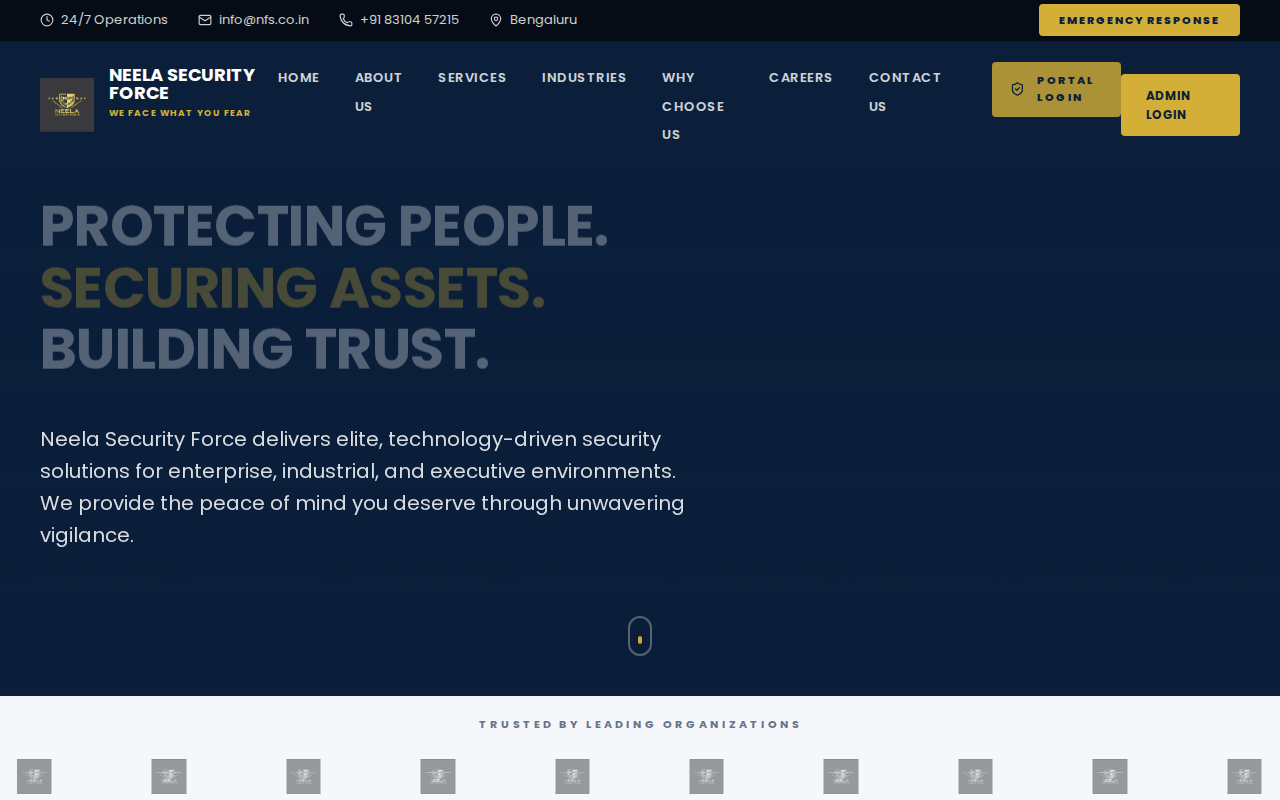
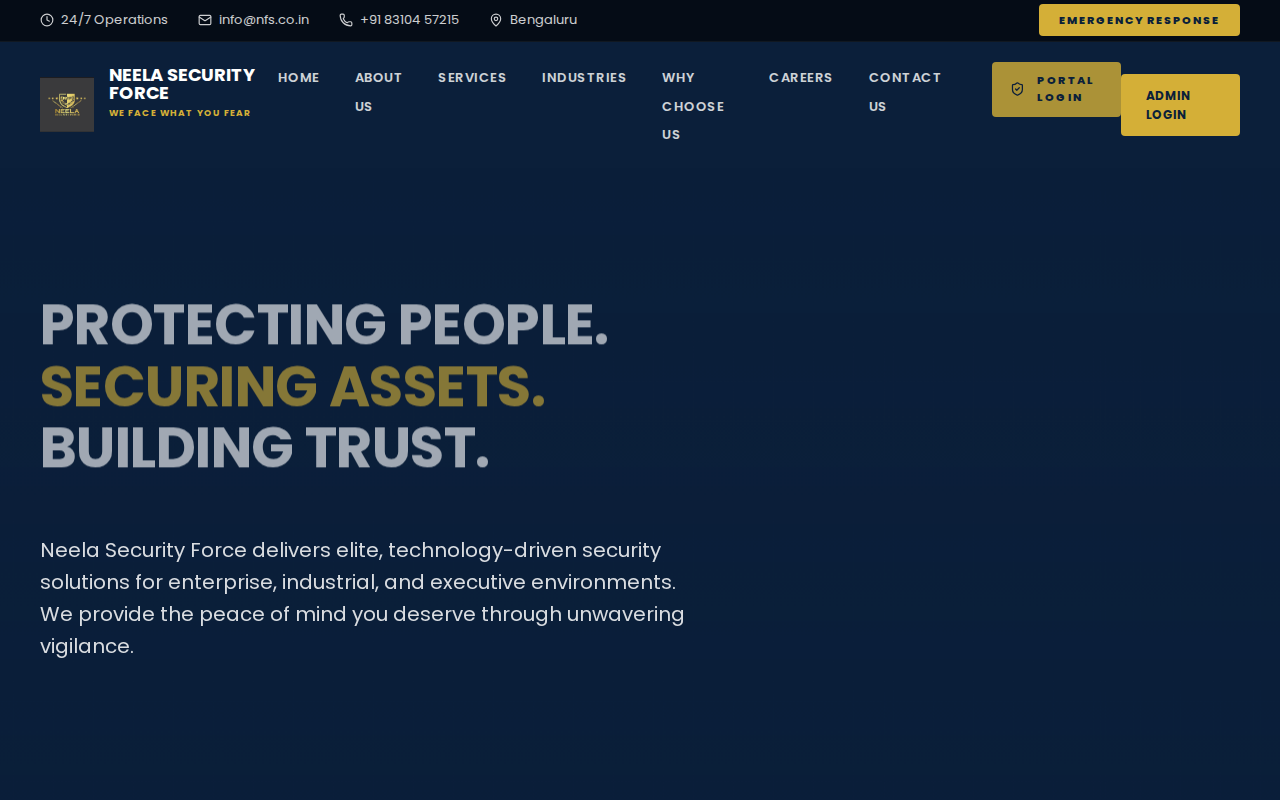
style: final public website stabilization

Changed region(s): [[0.0312, 0.25, 0.5312, 0.8125], [0.0, 0.8438, 1.0, 1.0]]

diff --git a/css/style.css b/css/style.css
@@ -119,8 +119,8 @@ nav a:hover { color: var(--secondary); opacity: 1; }
    HERO SECTION
 ---------------------------------------------------------- */
 .hero {
-
-
+    height: 90vh;
+    min-height: 750px;
     display: flex;
     align-items: center;
     position: relative;
@@ -207,7 +207,7 @@ nav a:hover { color: var(--secondary); opacity: 1; }
 /* ----------------------------------------------------------
    TICKER SECTION
 ---------------------------------------------------------- */
-.ticker-section { padding: 20px 0; background: var(--bg-gray); border-bottom: 1px solid #EEE; overflow: hidden; }
+.ticker-section { padding: 40px 0; background: var(--bg-gray); border-bottom: 1px solid #EEE; overflow: hidden; }
 .ticker-label { text-align: center; font-size: 11px; font-weight: 700; text-transform: uppercase; letter-spacing: 3px; color: var(--text-muted); margin-bottom: 25px; }
 
 .ticker-track {
@@ -229,7 +229,7 @@ nav a:hover { color: var(--secondary); opacity: 1; }
 /* ----------------------------------------------------------
    REUSABLE SECTION COMPONENTS
 ---------------------------------------------------------- */
-.section { padding: 60px 0; }
+.section { padding: 120px 0; }
 .section.dark { background: var(--bg-dark); color: #FFF; }
 .section.dark-alt { background: var(--bg-dark-alt); color: #FFF; }
 
@@ -253,7 +253,7 @@ nav a:hover { color: var(--secondary); opacity: 1; }
     background: var(--secondary);
 }
 
-.section-header { text-align: center; margin-bottom: 40px; }
+.section-header { text-align: center; margin-bottom: 80px; }
 .section-header h2 { font-size: 48px; color: inherit; }
 .section.dark h2 { color: #FFF; }
 
@@ -295,9 +295,9 @@ nav a:hover { color: var(--secondary); opacity: 1; }
 
 .about-images { display: flex; gap: 25px; align-items: flex-start; }
 .img-large { flex: 1; }
-.img-large img { border-radius: var(--radius-lg); width: 100%; max-height: 500px; height: auto; object-fit: cover; }
+.img-large img { border-radius: var(--radius-lg); width: 100%; height: 500px; object-fit: cover; }
 
-.img-small-wrap { display: flex; flex-direction: column; gap: 25px; width: 180px;  }
+.img-small-wrap { display: flex; flex-direction: column; gap: 25px; width: 180px; margin-top: 50px; }
 .img-small img { border-radius: var(--radius-md); height: 140px; width: 100%; object-fit: cover; }
 
 .about-text h2 { font-size: 42px; margin-bottom: 30px; }
@@ -340,7 +340,7 @@ nav a:hover { color: var(--secondary); opacity: 1; }
 .service-card-v2:hover p { color: var(--primary); opacity: 0.8; }
 .service-card-v2:hover .serv-icon { color: var(--primary); }
 
-.services-footer { text-align: center;  }
+.services-footer { text-align: center; margin-top: 70px; }
 
 /* ----------------------------------------------------------
    WHY CHOOSE US
@@ -356,7 +356,7 @@ nav a:hover { color: var(--secondary); opacity: 1; }
 .why-feat-item p { font-size: 14px; color: var(--text-muted); margin: 0; }
 
 .why-image { position: relative; }
-.why-image img { border-radius: var(--radius-lg); max-height: 600px; height: auto; width: 100%; object-fit: cover; }
+.why-image img { border-radius: var(--radius-lg); height: 600px; width: 100%; object-fit: cover; }
 
 .experience-card {
     position: absolute;
@@ -403,7 +403,7 @@ nav a:hover { color: var(--secondary); opacity: 1; }
 /* ----------------------------------------------------------
    ATTENDANCE SHOWCASE
 ---------------------------------------------------------- */
-.attendance-showcase { background: var(--bg-gray); padding: 60px 0; }
+.attendance-showcase { background: var(--bg-gray); padding: 150px 0; }
 .attendance-grid { display: grid; grid-template-columns: 1fr 1fr; gap: 100px; align-items: center; }
 .attendance-content h2 { font-size: 48px; margin-bottom: 30px; }
 .attendance-content p { font-size: 18px; color: var(--text-muted); margin-bottom: 40px; }
@@ -415,7 +415,7 @@ nav a:hover { color: var(--secondary); opacity: 1; }
 .att-feat p { margin: 0; font-size: 14px; font-weight: 700; color: var(--primary); }
 
 .attendance-visual { position: relative; }
-.mockup-container { position: relative; max-height: 500px; height: auto; }
+.mockup-container { position: relative; height: 500px; }
 .laptop-mockup { width: 100%; height: auto; border-radius: 10px; box-shadow: var(--shadow-premium); }
 .mobile-mockup { position: absolute; bottom: -50px; right: -20px; width: 220px; border-radius: 30px; border: 8px solid #333; box-shadow: var(--shadow-premium); }
 
@@ -424,7 +424,7 @@ nav a:hover { color: var(--secondary); opacity: 1; }
 ---------------------------------------------------------- */
 .leadership-grid { display: grid; grid-template-columns: repeat(3, 1fr); gap: 40px; }
 
-.leader-card-v2 { position: relative; overflow: hidden; border-radius: var(--radius-lg); max-height: 500px; height: auto; }
+.leader-card-v2 { position: relative; overflow: hidden; border-radius: var(--radius-lg); height: 500px; }
 .leader-card-v2 img { width: 100%; height: 100%; object-fit: cover; transition: var(--transition-premium); }
 .leader-card-v2:hover img { transform: scale(1.1); }
 
@@ -441,7 +441,7 @@ nav a:hover { color: var(--secondary); opacity: 1; }
 /* ----------------------------------------------------------
    CTA BANNER
 ---------------------------------------------------------- */
-.cta-banner { background: var(--secondary); padding: 60px 0; }
+.cta-banner { background: var(--secondary); padding: 80px 0; }
 .cta-flex { display: flex; justify-content: space-between; align-items: center; }
 .cta-text h2 { font-size: 42px; margin-bottom: 10px; color: var(--primary); }
 .cta-text p { font-size: 20px; font-weight: 600; color: var(--primary); opacity: 0.8; margin: 0; }
@@ -449,8 +449,8 @@ nav a:hover { color: var(--secondary); opacity: 1; }
 /* ----------------------------------------------------------
    FOOTER
 ---------------------------------------------------------- */
-.footer-contact { background: var(--primary-dark); padding: 60px 0 40px; color: #FFF; }
-.footer-main-grid { display: grid; grid-template-columns: 1.5fr 0.8fr 0.8fr 0.8fr 1.2fr; gap: 60px; margin-bottom: 40px; }
+.footer-contact { background: var(--primary-dark); padding: 120px 0 40px; color: #FFF; }
+.footer-main-grid { display: grid; grid-template-columns: 1.5fr 0.8fr 0.8fr 0.8fr 1.2fr; gap: 60px; margin-bottom: 80px; }
 
 .footer-brand p { font-size: 15px; opacity: 0.6; margin: 30px 0; }
 .social-links { display: flex; gap: 15px; }
@@ -465,7 +465,7 @@ nav a:hover { color: var(--secondary); opacity: 1; }
 .footer-main-grid ul li a:hover { color: var(--secondary); padding-left: 8px; }
 
 .footer-contact-col p { font-size: 14px; opacity: 0.6; margin-bottom: 20px; display: flex; align-items: flex-start; gap: 15px; }
-.footer-contact-col i { color: var(--secondary); width: 18px; height: 18px;  }
+.footer-contact-col i { color: var(--secondary); width: 18px; height: 18px; margin-top: 2px; }
 
 .footer-legal { border-top: 1px solid rgba(255,255,255,0.05); padding-top: 40px; display: flex; justify-content: space-between; font-size: 13px; opacity: 0.5; }
 .legal-links { display: flex; gap: 30px; }
@@ -565,7 +565,7 @@ nav a:hover { color: var(--secondary); opacity: 1; }
 .portal-container {
     width: 90%;
     max-width: 1400px;
-
+    height: 85vh;
     background: #FFF;
     border-radius: var(--radius-lg);
     display: flex;
@@ -781,7 +781,7 @@ nav a:hover { color: var(--secondary); opacity: 1; }
     display: grid;
     grid-template-columns: repeat(3, 1fr);
     gap: 30px;
-
+    margin-top: 40px;
 }
 
 .career-card {
@@ -824,7 +824,7 @@ nav a:hover { color: var(--secondary); opacity: 1; }
         position: relative;
         top: auto;
         right: auto;
-
+        margin-top: 20px;
         width: 100%;
         margin-left: 0;
     }
@@ -837,7 +837,7 @@ nav a:hover { color: var(--secondary); opacity: 1; }
     .img-small-wrap {
         width: 100%;
         flex-direction: row;
-
+        margin-top: 20px;
     }
     .img-small img {
         height: 120px;
@@ -852,7 +852,7 @@ nav a:hover { color: var(--secondary); opacity: 1; }
     .hero h1 { font-size: 32px; }
     h2 { font-size: 28px; }
     .footer-main-grid { gap: 30px; }
-    .section { padding: 60px 0; }
+    .section { padding: 120px 0; }
 }
 
 /* Improved Button Hover Styles */
@@ -1068,7 +1068,7 @@ nav a:hover { color: var(--secondary); opacity: 1; }
 }
 
 /* Global Responsive Guards */
-html, body { overflow-x: hidden !important; width: 100%; max-width: 100vw;
+html, body {
     max-width: 100vw;
     overflow-x: hidden;
 }
@@ -1086,7 +1086,7 @@ img {
 }
 
 /* GLOBAL RESPONSIVE RULES */
-html, body { overflow-x: hidden !important; width: 100%; max-width: 100vw;
+html, body {
     width: 100%;
     max-width: 100%;
     overflow-x: hidden;
@@ -1104,7 +1104,7 @@ img {
 }
 
 /* SECTION SPACING */
-.section { padding: 60px 0; }
+.section { padding: 120px 0; }
 
 @media (max-width: 1024px) {
     .section { padding: 48px 0; }
@@ -1256,7 +1256,7 @@ img {
 
 /* ACCESSIBILITY & BUTTON HEIGHTS */
 .btn {
-
+    min-height: 48px;
     display: inline-flex;
     align-items: center;
     justify-content: center;
@@ -1264,7 +1264,7 @@ img {
 }
 
 .btn-quote {
-
+    min-height: 48px;
     display: inline-flex;
     align-items: center;
     justify-content: center;
